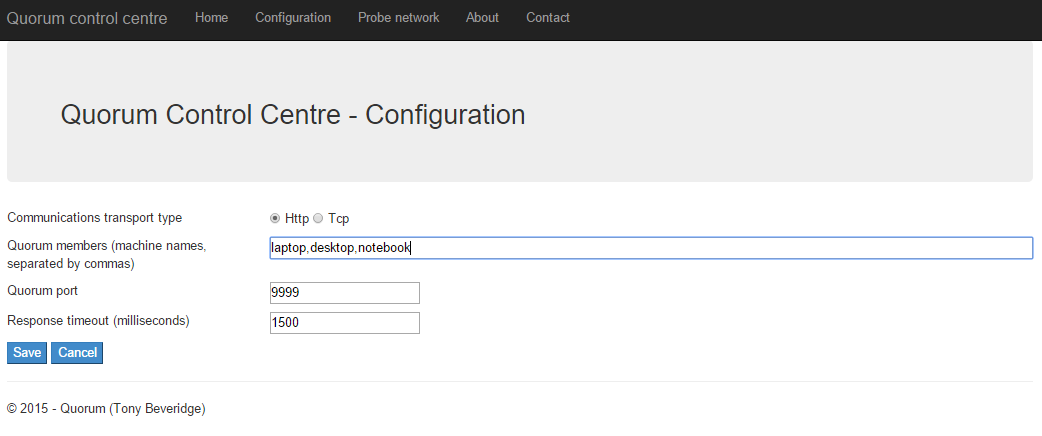
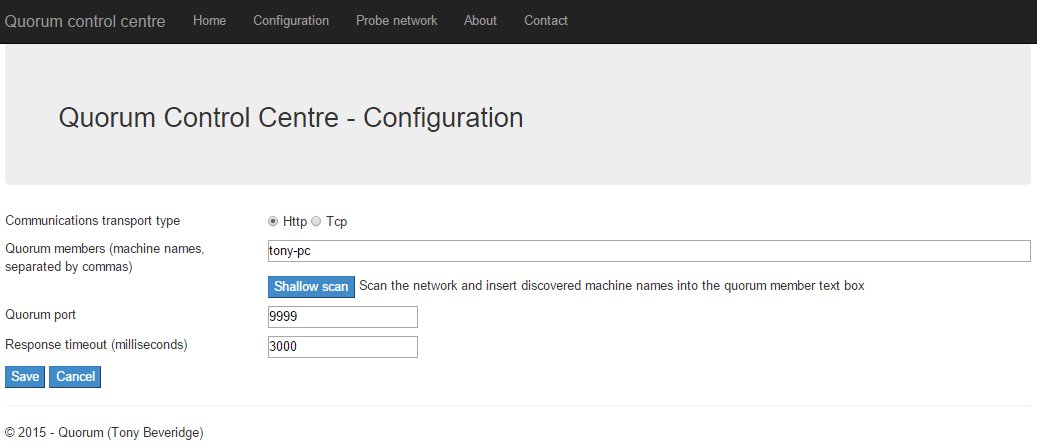
Update wiki PNG
Minor change

diff --git a/ControlCentre/Scripts/qcc/qcc-configuration.js b/ControlCentre/Scripts/qcc/qcc-configuration.js
@@ -41,11 +41,8 @@
             $('#scanWorking').show();
             window.qcc.scanNetworkLite(config,
             function (machines) {
-                var content = [];
-                machines.forEach(function (m) {
-                    content.push(m.Name.toLowerCase());
-                });
-                obsForm.members(content.join(','));
+                var content = machines.map(function(m) { return m.Name.toLowerCase(); }).join(',');
+                obsForm.members(content);
             },
             function () {
                 $('#scanDiv').show();
